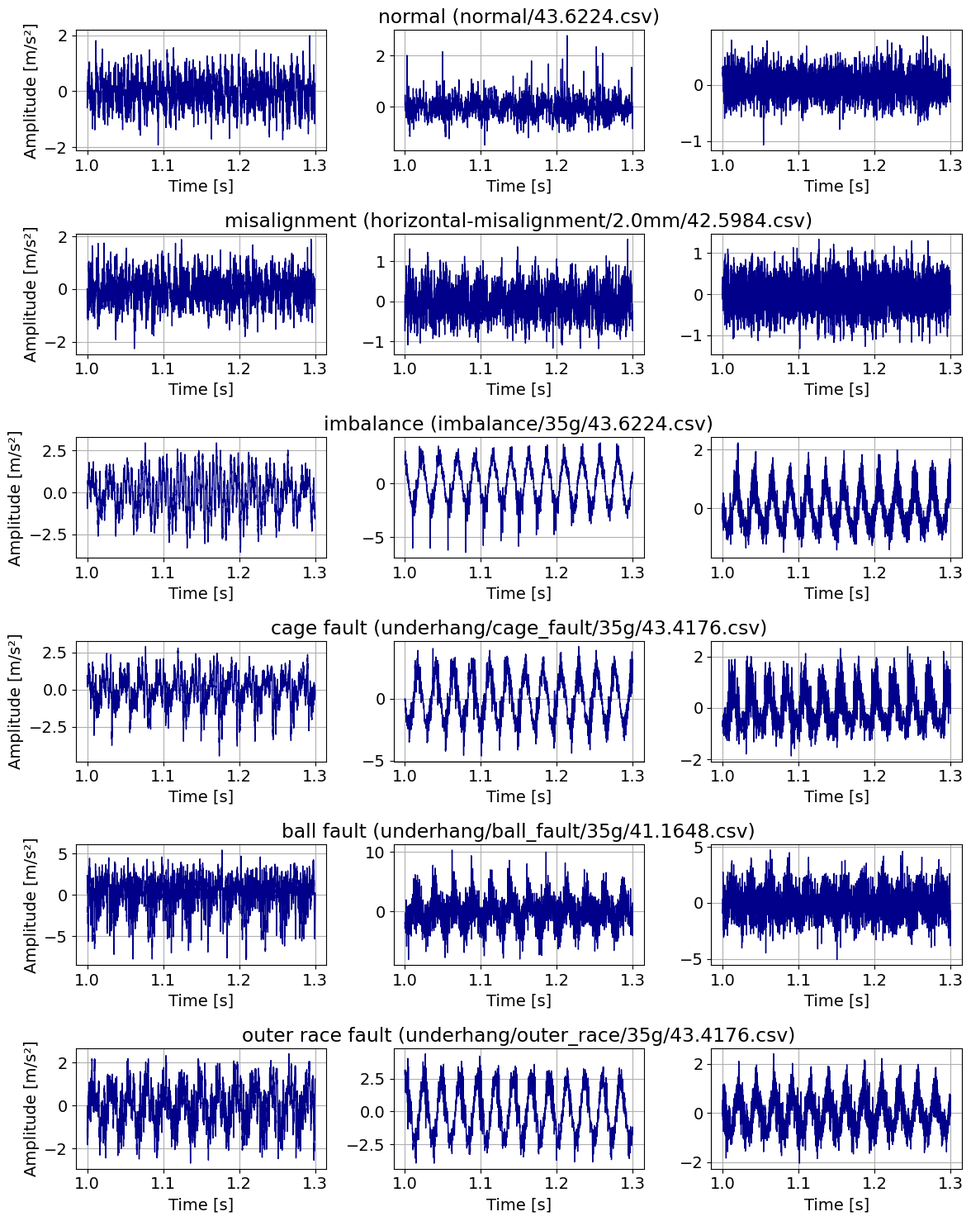
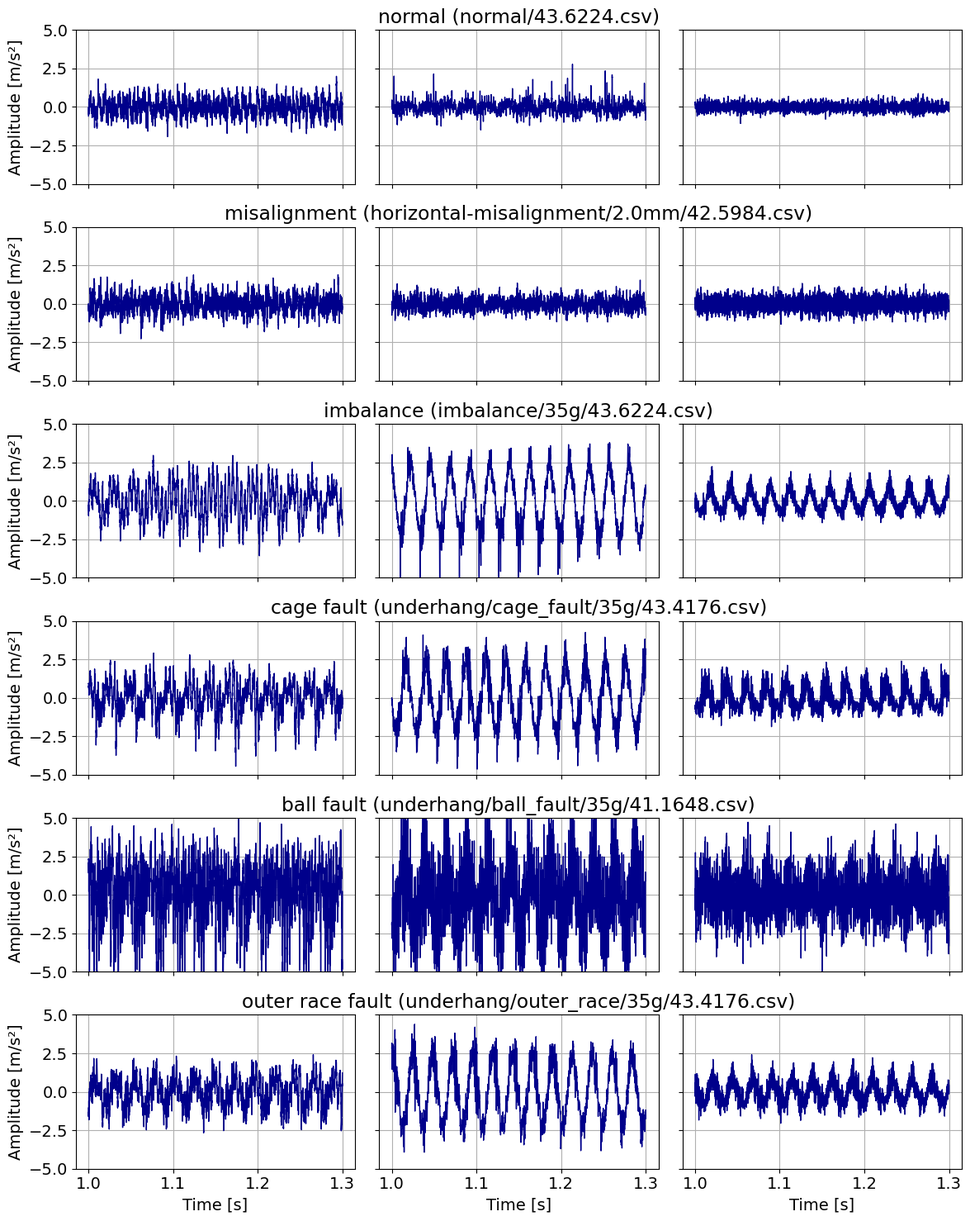
Complete MaFaulDa EDA

Changed region(s): [[0.0, 0.0, 1.0, 0.9959], [0.8272, 0.3112, 0.8885, 0.3424]]

diff --git a/thesis/chapters/03-design.tex b/thesis/chapters/03-design.tex
@@ -83,28 +83,30 @@ The observed effect is a rate of decrease in accuracy while shrinking the number
 
 \item \textbf{Feature selection methods} - the choice of feature subset is performed in linear time complexity as opposed to exponential in combinatorial case. The dimensionality reduction using \textbf{principal components analysis} (PCA) does further extraction and retains only the components that best explain the variance. The disadvantage is that the resulting linear combination cannot be interpreted easily. 
 
-The best feature subset from complete sets is picked after ranking the features according to their importance. The bivariate scores for ranking are the mean of point biserial \textbf{correlation} to every class label as a dichotomous variable, \textbf{Fisher score} (F statistic), and \textbf{Mutual information}. The rank product combines the three latter scores into the ensemble. The comparison for the accuracy of the feature selection strategy is made in relation to the entire model accuracy distribution. 
+The best feature subset from complete sets is picked after ranking the features according to their importance. An additional rule is that attributes cannot be added to the same set when they correlate very strongly  $|\mathrm{corr}| > 0.95$. The feature with a lower rank is added instead to the set.
 
-\item \textbf{Incremental learning} - the order of samples tries to simulate the gradually worsening state of the machine and delayed annotation of defects. Observations are sorted based on increasing relative severity. The faults with the same severity are lined up randomly. 
+The bivariate scores for ranking are the mean of point biserial \textbf{correlation} to every class label as a dichotomous variable, \textbf{Fisher score} (F statistic), and \textbf{Mutual information}. The correlation among features can reduce model's prediction power. The rank product combines the three latter scores into the ensemble. The comparison for the accuracy of the feature selection strategy is made in relation to the entire model accuracy distribution. 
+
+\item \textbf{Incremental learning} - the order of samples tries to simulate the gradually worsening state of the machine and delayed annotation of defects. Observations are sorted based on increasing relative severity. The faults within levels are shuffled randomly. 
 
 The \textbf{tumbling window} of lengths 1, 10, 100 measurements imitates regular expert visits annotating observations recorded until that moment. Labels for the whole previous window are supplied at once.
 
-Another common problem with online learning is \textbf{missing annotations} due to the size of the dataset. The equal-length gaps of 0, 2, 10, and 50 labels are skipped before another observation is annotated. This approach of skipping samples without considering their representativeness can result in harm to predictions. 
+Another common problem with online learning is \textbf{missing annotations} due to the size of the dataset. The equal-length gaps of 0, 2, 10, and 50 labels are skipped before another observation is annotated. This approach of skipping samples without considering their representativeness can harm the predictions. 
 \end{itemize}
 
 The experimental design involves the filter conditions that create 24 forms of the original MaFaulDa. The four main experiments test hyperparameters on each dataset variation. Those are k-neighbors, a number and kind of features in batch learning tumbling windows, and label skips in incremental learning.
 
 \section{Exploratory data analysis of MaFaulDa}
-% To better explain the behavior of the models we examine number of observation per fault category and spatial separability of the groups, ranges and interdependecies of the features. 
+A better explanation for model behavior is arranged by examining the number of observations per fault category, spatial separability of the distinguished groups, and scales of the attributes and their interdependencies.
 
-% Out of 1951 time series, just xx is for inner bearing (A) and xx for outer bearing. We can see taht by merging the vertical and horizontal misalignment this label has the most occurence with xx\%. Normal class is the less populous with just xx\%.
+Out of the 1951 time series, the inner bearing (A) has 1438, and the outer bearing (B) has 1393~(Tab.~\ref{tab:design:label-count}). Sorce bearing A+B just concatanes observations from both postions so the column sums their counts together. The observations for shaft defects are shared regardless of the bearing. 
 \begin{table}[h]
 \renewcommand{\arraystretch}{1.2}
 \centering
-\begin{tabular}{|lr|r|r|r|r|r|r|}
+\begin{tabular}{|ll|r|r|r|r|r|r|}
 \hline
-\multicolumn{2}{|l|}{\textbf{Bearing}}                                            & \multicolumn{1}{l|}{A}  & \multicolumn{1}{l|}{A+B} & \multicolumn{1}{l|}{B}  & \multicolumn{1}{l|}{A}   & \multicolumn{1}{l|}{A+B} & \multicolumn{1}{l|}{B}   \\ \hline
-\multicolumn{2}{|l|}{\textbf{Relabel by severity}}                                & \multicolumn{1}{l|}{No} & \multicolumn{1}{l|}{No}  & \multicolumn{1}{l|}{No} & \multicolumn{1}{l|}{Yes} & \multicolumn{1}{l|}{Yes} & \multicolumn{1}{l|}{Yes} \\ \hline
+\multicolumn{2}{|l|}{\textbf{Source bearing}}                                            & \multicolumn{1}{l|}{A}  & \multicolumn{1}{l|}{A+B} & \multicolumn{1}{l|}{B}  & \multicolumn{1}{l|}{A}   & \multicolumn{1}{l|}{A+B} & \multicolumn{1}{l|}{B}   \\ \hline
+\multicolumn{2}{|l|}{\textbf{High severity faults}}                                & \multicolumn{1}{l|}{No} & \multicolumn{1}{l|}{No}  & \multicolumn{1}{l|}{No} & \multicolumn{1}{l|}{Yes} & \multicolumn{1}{l|}{Yes} & \multicolumn{1}{l|}{Yes} \\ \hline
 \multicolumn{1}{|l|}{\multirow{6}{*}{\textbf{Fault}}} & \textbf{misalignment}     & 498                     & 996                      & 498                     & 248                      & 496                      & 248                      \\ \cline{2-8} 
 \multicolumn{1}{|l|}{}                                & \textbf{imbalance}        & 333                     & 666                      & 333                     & 188                      & 376                      & 188                      \\ \cline{2-8} 
 \multicolumn{1}{|l|}{}                                & \textbf{cage fault}       & 188                     & 376                      & 188                     & 91                       & 181                      & 90                       \\ \cline{2-8} 
@@ -113,61 +115,93 @@ The experimental design involves the filter conditions that create 24 forms of t
 \multicolumn{1}{|l|}{}                                & \textbf{normal}           & 49                      & 98                       & 49                      & 738                      & 1470                     & 732                      \\ \hline
 \multicolumn{2}{|l|}{$\Sigma$}                                                    & \textbf{1438}           & \textbf{2831}            & \textbf{1393}           & \textbf{1438}            & \textbf{2831}            & \textbf{1393}            \\ \hline
 \end{tabular}
-\caption{Number of rows in MaFaulDa according to label}
+\caption{Number of observation in MaFaulDa split by class label according to source bearing}
+\label{tab:design:label-count}
 \end{table}
 
-% The inner and outer bearings each have diffent number of recodings made so the total counts differ: xx for bearing A and xx for bearing B. After relabeling the normal class became the largest taking up xx\%. Bearing A+B just concatanes observations from both beraings so the value is the sum. Inbalance ratio as a largest to smallest numbered class is xx \% for original labels and xx \% after relabeling
+The fusion of vertical and horizontal misalignment gives rise to the label that occurs the most at 34.63\%. The baseline class is the least populous at 3.4\% for the inner bearing. After relacing low severity faults with the normal status it became the largest with 51.32\%. The imbalance ratio as a proportion of the largest to the smallest classes is 10.16 for original labels and 8.58 after relabeling.
 
-% Correlation to RPM
+Exemplary waveforms from each fault class illustrate their
+superficial differences in oscillatory behavior. The files with the highest severity levels and around an average rotational speed of 2500 rpm (42 Hz) are displayed to discern patterns.
 \begin{figure}[h]
     \centering
-    \includegraphics[width=\textwidth]{assets/results/feature-values/corr-to-rpm.png}
-    \caption{Correlation of features to RPM over all experiments}
+    \begin{subfigure}[b]{0.48\textwidth}
+        \includegraphics[width=\textwidth]{assets/results/eda/mafaulda-TD-A.png}
+        \caption{Time domain for all axis}
+        \label{fig:design:fault-temporal-waveform}
+    \end{subfigure}
+    \hfill
+    \begin{subfigure}[b]{0.50\textwidth}
+        \includegraphics[width=\textwidth]{assets/results/eda/mafaulda-faults.png}
+        \caption{Frequency domain in radial direction}
+        \label{fig:design:fault-spectral-waveform}
+    \end{subfigure}
+    \caption{Vibrations from inner bearing (A) for every fault class with the highest fault severity at 2500 rpm}
 \end{figure}
 
-% Feature correlations
+Time-domain waveforms of the 300 ms signal slice are shown in the graphs in Figure \ref{fig:design:fault-temporal-waveform}. Subplots for radial, tangential, and axial directions are in columns from left to right. Amplitudes vary with limits from $\pm 3\; \mathrm{m/s}^2$ in baseline and misalignment time series up to $\pm 11\;\mathrm{m/s}^2$ in case of severe bearing faults. 
+
+The frequency spectrum in Figure \ref{fig:design:fault-spectral-waveform} is obtained by FFT and Hann window of 16384 samples. The signal chunk represents an uncertainty box with a duration of approximately 328 ms and a spectral resolution of little over 3 Hz. The graph has been cropped in variables to make the most important peaks visible.
+
+The numeric scale of distinct attributes calculated out of signals for bearing A widely differs ~(Fig.~\ref{fig:design:feature-range}). The magnitude of three spatial dimensions stretches the scale towards larger values or introduces more outliers. Many of the indicators used for fault detection are dimensionless numbers but for others, the information about units of measurement is still attainable. 
+
+\begin{figure}[h]
+    \centering
+    \begin{subfigure}[b]{0.48\textwidth}
+        \includegraphics[width=\textwidth]{assets/results/feature-values/features-TD-dim1-A.png}
+        \caption{Time-domain features for 1 axis}
+    \end{subfigure}
+    \hfill
+    \begin{subfigure}[b]{0.48\textwidth}
+        \includegraphics[width=\textwidth]{assets/results/feature-values/features-FD-dim1-A.png}
+        \caption{Frequency-domain features for 3 axes}
+    \end{subfigure}
+    \begin{subfigure}[b]{0.48\textwidth}
+        \includegraphics[width=\textwidth]{assets/results/feature-values/features-TD-dim3-A.png}
+        \caption{Time-domain features for 1 axis}
+    \end{subfigure}
+    \hfill
+    \begin{subfigure}[b]{0.48\textwidth}
+        \includegraphics[width=\textwidth]{assets/results/feature-values/features-FD-dim3-A.png}
+        \caption{Frequency-domain features for 3 axes}
+    \end{subfigure}
+    \caption{The value ranges of attributes for bearing A, depending on the number of directions that feature is aggregated out of}
+    \label{fig:design:feature-range}
+\end{figure}
+
+Inside the interquartile range of three axis features the peak-to-peak is approximately between 2 - 22 $\mathrm{m/s}^2$, root-mean-square is 0.4 - 2.5 $\mathrm{m/s}^2$, average amplitude change represents 0.05 - 0.45 $\mathrm{m/s}^2$ of amplitude change in 20 $\mu\mathrm{s}$. In the frequency domain, the spectral centroid is 100 - 5900 Hz, roll-off frequencies arise below 5000 Hz, roll-on frequencies are below 400 Hz, and entropy occurs from 4 to 12 nats.
+
+Despite the differences in ranges in some instances by several orders of magnitude, there are still dependencies among variables in the complete feature sets. The TD set~(Fig.~\ref{fig:design:corr-td}) appears to have less strongly correlated pairs than the FD set~(Fig.~\ref{fig:design:corr-fd}) in terms of Pearson correlation coefficient. 
+
 \begin{figure}[h]
     \centering
     \begin{subfigure}[b]{0.48\textwidth}
         \includegraphics[width=\textwidth]{assets/results/feature-values/corr-A-3-TD.png}
         \caption{Time-domain features}
+        \label{fig:design:corr-td}
     \end{subfigure}
     \hfill
     \begin{subfigure}[b]{0.48\textwidth}
         \includegraphics[width=\textwidth]{assets/results/feature-values/corr-A-3-FD.png}
         \caption{Frequency-domain features}
+        \label{fig:design:corr-fd}
     \end{subfigure}
-    \caption{Feature correlations in MaFaulDa}
+    \caption{Pearson correlations of variables from inner bearing (A) in feature sets aggregated out of 3 axes}
 \end{figure}
 
+Crest, impulse, and clearance in TD have correlations of 100\%. Other very strongly positively correlated variables are peak-to-peak to root-mean-square at 95\% and average amplitude change at 83\%. Kurtosis is strongly correlated with skewness at 72\% and with crest, impulse, and clearance at 66\%. Shape and zero-crossing rate are also correlated at 72\%. In the FD set the roll-on frequency, energy, and standard deviation are the most uncorrelated to all other variables. However, the energy and std are highly correlated to each other. Skewness and kurtosis of the frequency spectrum have a strong association of 99\%. The rest of the attributes have an absolute value of correlation greater than 68\% in pairs amongst themselves.
 
-% Features Range
-% Mafaulda
 \begin{figure}[h]
     \centering
-    \begin{subfigure}[b]{0.48\textwidth}
-        \includegraphics[width=\textwidth]{assets/results/feature-values/features-TD-dim1-A.png}
-        \caption{Time-domain features}
-    \end{subfigure}
-    \hfill
-    \begin{subfigure}[b]{0.48\textwidth}
-        \includegraphics[width=\textwidth]{assets/results/feature-values/features-FD-dim1-A.png}
-        \caption{Frequency-domain features}
-    \end{subfigure}
-    \begin{subfigure}[b]{0.48\textwidth}
-        \includegraphics[width=\textwidth]{assets/results/feature-values/features-TD-dim3-A.png}
-        \caption{Time-domain features}
-    \end{subfigure}
-    \hfill
-    \begin{subfigure}[b]{0.48\textwidth}
-        \includegraphics[width=\textwidth]{assets/results/feature-values/features-FD-dim3-A.png}
-        \caption{Frequency-domain features}
-    \end{subfigure}
-    \caption{Feature range in MaFaulDa}
+    \includegraphics[width=0.8\textwidth]{assets/results/feature-values/corr-to-rpm.png}
+    \caption{Correlation of features to rpm over all experiments}
+    \label{fig:design:rpm-corr}
 \end{figure}
 
-% PCA plot of labels
-% Clusters with true labels
+The faults in the MaFaulDa were measured at several rotational speeds. This increases the robustness of the machine-learning model. In practice, if the model is trained only at one speed and then the speed alters, the features tied to rpm could inhibit the prediction accuracy. The distribution of correlations of each predictor to rpm under all experimental conditions is shown in Figure~\ref{fig:design:rpm-corr}. 
+
+The overwhelming majority of predictors are weakly correlated to rotational speed. The moderate correlation appears for average amplitude change with the median of 54\% and peak-to-peak with median of 31\%. These two features are less suited for idenfifying fault types in variable speed situations.
+
 \begin{figure}[h]
     \centering
     \begin{subfigure}[b]{0.48\textwidth}
@@ -189,47 +223,32 @@ The experimental design involves the filter conditions that create 24 forms of t
         \includegraphics[width=\textwidth]{assets/results/labels/PCA-FD-severity.png}
         \caption{Frequency-domain features (severity)}
     \end{subfigure} 
-    \caption{PCA of all features to 2 components}
+    \caption{PCA of complete feature set into two principal components (bearing A and 3 axis}
+    \label{fig:design:pca-complete-sets}
 \end{figure}
 
-% Time domain waveforms of different faults
+The separability of fault groups into clusters is qualitatively analyzed by projecting normalized complete feature sets onto the plain utilizing two principal components. The transformed TD and FD sets are shown in Figure~\ref{fig:design:pca-complete-sets} with original labels and after low severities are assigned ``normal'' class. The decision boundaries that color the feature space around the data points are determined in 0.02x0.02 square areas by k-NN with five neighbours.
+
+Shaft misalignment and bearing ball fault look quite lumped together, whereas imbalance is mixed with cage fault. The silhouette score quantifies the amount of cluster overlap which indicates a very weak clustering score with values around 0.08. The explained variance with two components is 84.7\% for TD and 86.5\% using original labels.
+
 \begin{figure}[h]
     \centering
     \begin{subfigure}[b]{0.49\textwidth}
-        \includegraphics[width=\textwidth]{assets/results/eda/mafaulda-TD-A.png}
-        \caption{Time domain}
-    \end{subfigure}
-    \hfill
-    \begin{subfigure}[b]{0.49\textwidth}
-        \includegraphics[width=\textwidth]{assets/results/eda/mafaulda-faults.png}
-        \caption{Frequency domain (around 2500 rpm)}
-    \end{subfigure}
-    \caption{MaFaulDa}
-\end{figure}
-
-
-% PCA loading plots
-\begin{figure}[h]
-    \centering
-    \begin{subfigure}[b]{\textwidth}
-        \includegraphics[width=\textwidth]{assets/results/eda/PCA-explained-variance.png}
+        \includegraphics[width=\textwidth]{assets/results/eda/PCA-TD-loading-plot.png}
         \caption{Time-domain features}
     \end{subfigure}
     \hfill
-    \begin{subfigure}[b]{0.48\textwidth}
-        \includegraphics[width=\textwidth]{assets/results/eda/PCA-TD-loading-plot.png}
-        \caption{Frequency-domain features}
-    \end{subfigure}
-    \hfill
-    \begin{subfigure}[b]{0.48\textwidth}
+    \begin{subfigure}[b]{0.49\textwidth}
         \includegraphics[width=\textwidth]{assets/results/eda/PCA-FD-loading-plot.png}
-        \caption{Time-domain features (severity)}
+        \caption{Frequency-domain features}
     \end{subfigure} 
-    \caption{PCA explained variance and loading plots (A bearing)}
+    \caption{PCA loading plots for bearing A}
+    \label{fig:design:pca-loading-plot}
 \end{figure}
 
-% silhouette score
+Loading plots of PCA (Fig.~\ref{fig:design:pca-loading-plot}) illustrate correlations of features to two principal components. The first PC in the time domain mainly describes the impulsiveness of the waveform: \emph{shape, impulse, crest, clearance, zero-crossing rate}. The second PC focuses more on the amplitude range: \emph{rms, peak-to-peak, aac}. 
 
+However, the groups are not as clear-cut for frequency-domain features. Overall chaos in frequency spectra can be attributed to PC1: \emph{flux, entropy, negentropy, noisiness}, and the shape of frequency distribution to PC2: \emph{roll-on, roll-off}.
 
 
 \section{Accelerometer data logger}

diff --git a/thesis/chapters/TEXT.tex b/thesis/chapters/TEXT.tex
@@ -80,12 +80,10 @@ These vibration sensors are placed in two positions. The first placement is arou
         \caption{Spectra in radial direction}
         \label{fig:design:fault-spectral-waveform}
     \end{subfigure} 
-    \caption{Inner bearing vibrations (A) for each fault category with the highest fault severity at 2500 rpm}
+    \caption{}
 \end{figure}
 
-Temporal domain waveforms of the 300 ms signal slice are shown in the graphs in Figure \ref{fig:design:fault-temporal-waveform}. Subplots for radial, tangential, and axial directions are laid out in columns from left to right. Amplitudes vary with limits from $\pm 3\; \mathrm{m/s}^2$ in baseline and misalignment time series up to $\pm 11\;\mathrm{m/s}^2$ in case of severe bearing faults. 
 
-The frequency spectrum in Figure \ref{fig:design:fault-spectral-waveform} is obtained by FFT and Hann window of length $2^{14}$. The signal chunk represents an uncertainty box with a duration of approximately 328 ms and a spectral resolution of little over 3 Hz. The graph has been cropped in both axes to make the most important peaks visible.
 
 
 \subsection{Statistical tests}
@@ -126,7 +124,7 @@ Fault labels and their severities come from the directory structure within the d
 
 Pearson's correlation of features to rpm is very low in the whole dataset. In the temporal domain, the correlation coefficient is within an interval of -0.08 to 0.26. In the spectral domain, the correlation to rpm for all FFT window sizes from $2^8$ up to $2^{14}$ is mostly very low from -0.14 up to 0.26, except for the centroid being around 0.35.
 
-The correlation among features can reduce prediction power if a pair is elected where $|\mathrm{corr}| > 0.95$. The feature is not added to the subset when the threshold is exceeded. High correlations are more substantial in the temporal domain that are present in these pairs (ordered from the most correlated): \{impulse, clearance\}, \{crest, impulse\}, \{crest, clearance\}, \{pp, rms\}. In the spectral domain set \{skewness, kurtosis\} has a strong correlation.
+ temporal domain that are present in these pairs (ordered from the most correlated): \{impulse, clearance\}, \{crest, impulse\}, \{crest, clearance\}, \{pp, rms\}. In the spectral domain set \{skewness, kurtosis\} has a strong correlation.
 
 %\begin{figure}[h!]
 %    \centering
@@ -152,9 +150,7 @@ The variables are also more inter-correlated in the temporal domain shown by pri
 %    \label{fig:design:pca-loading-plot} 
 %\end{figure}
 
-PCA efficiently expresses attributes in less dimensional space, but the resulting linear combination is hard to comprehend for explaining decisions. Loading plots of PCA (Fig. \ref{fig:design:pca-loading-plot}) illustrate correlations of features to two principal components. The first PC in the temporal domain mainly describes the impulsiveness of the waveform: \emph{shape, impulse, crest, clearance, zero-crossing}. The second PC focuses more on the amplitude range: \emph{rms, p-p, aac}.  
-
-However, the groups are not as clear-cut for spectral features. Overall chaos in spectra can be attributed to PC1: \emph{flux, entropy, negentropy, noisiness}, and the shape of frequency distribution to PC2: \emph{roll-on, roll-off, centroid}.
+PCA efficiently expresses attributes in less dimensional space, but the resulting linear combination is hard to comprehend for explaining decisions. 
 
 
 \subsection{Feature selection}
@@ -181,17 +177,6 @@ Two models are created for the target variable in classification with all 10 tem
 Confusion matrices for fault prediction and high severity anomaly are shown in Figure \ref{fig:design:KNN-confusion-matrix}. In this example, the number of k neighbors is 5, the distance metric is the Euclidian norm, and the algorithm for proximity queries is a k-d tree. The most inaccuracies in the temporal domain are between misalignment and bearing race faults. In the spectral domain, the model confuses imbalance and bearing faults because mass to unbalance is hung onto the shaft to cause bearing defects. 
 
 In anomaly prediction, the error of the first degree is 7 times more prevalent than the error of the second degree. False positives are preferable, since we do not want the machine to fail prematurely and not know about it. In all cases, spectral features maintain better prediction metrics than all temporal features because of less interdependency among features. Bearing B exhibits overall worse classification performance because of more noise in the original signal.
-
-%\begin{table}[h]
-%\centering
-%\renewcommand{\arraystretch}{1.2}
-%\begin{adjustbox}{width=\textwidth}
-%
-%\end{tabular}
-%\end{adjustbox}
-%\caption{k-NN model performance trained on all extracted features}
-%\label{tab:design:all-extracted-features}
-%\end{table}
 
 Accuracies and F1 scores in both bearing positions with all extracted features are shown in Table \ref{tab:design:all-extracted-features}. Models are overtrained, especially for temporal features, because of the substantial difference between accuracy on training and validation sets. Binary classification of anomalies is unsurprisingly more precise in general than the multi-class case. Defect-type detection with all features reaches accuracy on the testing set above 98\% for bearing A, and above 90\% for bearing B.
 
@@ -346,8 +331,7 @@ Accuracies after sequentially seeing all samples 96.78\% in temporal domain and 
 %    \label{fig:design:online-fault-delay-sliding}
 %\end{figure}
 	
-	
-The \textbf{tumbling window} simulates regular expert visits annotating observations recorded until that moment. Labels for the whole previous window are supplied at once. In the final sample, the accuracies are 89.11\% \emph{(temporal)} and 90.38\% \emph{(spectral)} with immediate feedback, and 83.08\% \emph{(temporal)} and 85.01\% \emph{(spectral)} with window length of 250 samples (Fig.~\ref{fig:design:online-fault-delay-tumbling}). 
+In the final sample, the accuracies are 89.11\% \emph{(temporal)} and 90.38\% \emph{(spectral)} with immediate feedback, and 83.08\% \emph{(temporal)} and 85.01\% \emph{(spectral)} with window length of 250 samples (Fig.~\ref{fig:design:online-fault-delay-tumbling}). 
 
 %\begin{figure}[ht]
 %    \centering
@@ -366,7 +350,6 @@ The \textbf{tumbling window} simulates regular expert visits annotating observat
 
 A \textbf{tumbling window} is more accurate according to progressive valuation because the labeling delay decreases towards the window's end. Initial 0\% accuracy is caused by a warming-up period in data collection during the span of the first few windows. The true labels are unknown. After just a handful of windows in the beginning, accuracy jumps above 60\% and stabilizes after 1000 observations.
 
-Another common problem with online learning is \textbf{missing annotations} due to the size of the dataset. In the simulation of missing labels, the equal-length gaps are skipped before another observation is annotated. This approach of choosing samples to annotate without considering their representativeness results in severe harm to predictions. 
 
 %\begin{figure}[ht]
 %    \centering
@@ -393,8 +376,6 @@ We employ a slightly customized validation procedure that involves the selection
 
 \section{Sensor hardware and drivers}
 In preliminary exploratory vibration measurements of machines, the ADXL335 accelerometer is connected to BeagleBone Black microcontroller. The bandwidth, sensitivity, and sampling frequency of the makeshift solution do not appear to be adequate (Table~\ref{tab:design:hw-sensors}).
-
-
 
 The IIS3DWB accelerometer is a cheap enough MEMS accelerometer that approaches industrial standards for vibration monitoring. ESP32-PoE-ISO is chosen as a microcontroller development kit because it has an SD card slot connected via SD/MMC bus. It enables us to store all samples from FIFO. The accelerometer uses an SPI bus with a maximum speed of 10 MHz that can be connected to any physical GPIO pin. The block diagram of the designed hardware device is in Figure~\ref{fig:design:block-diagram-hw}.
 
